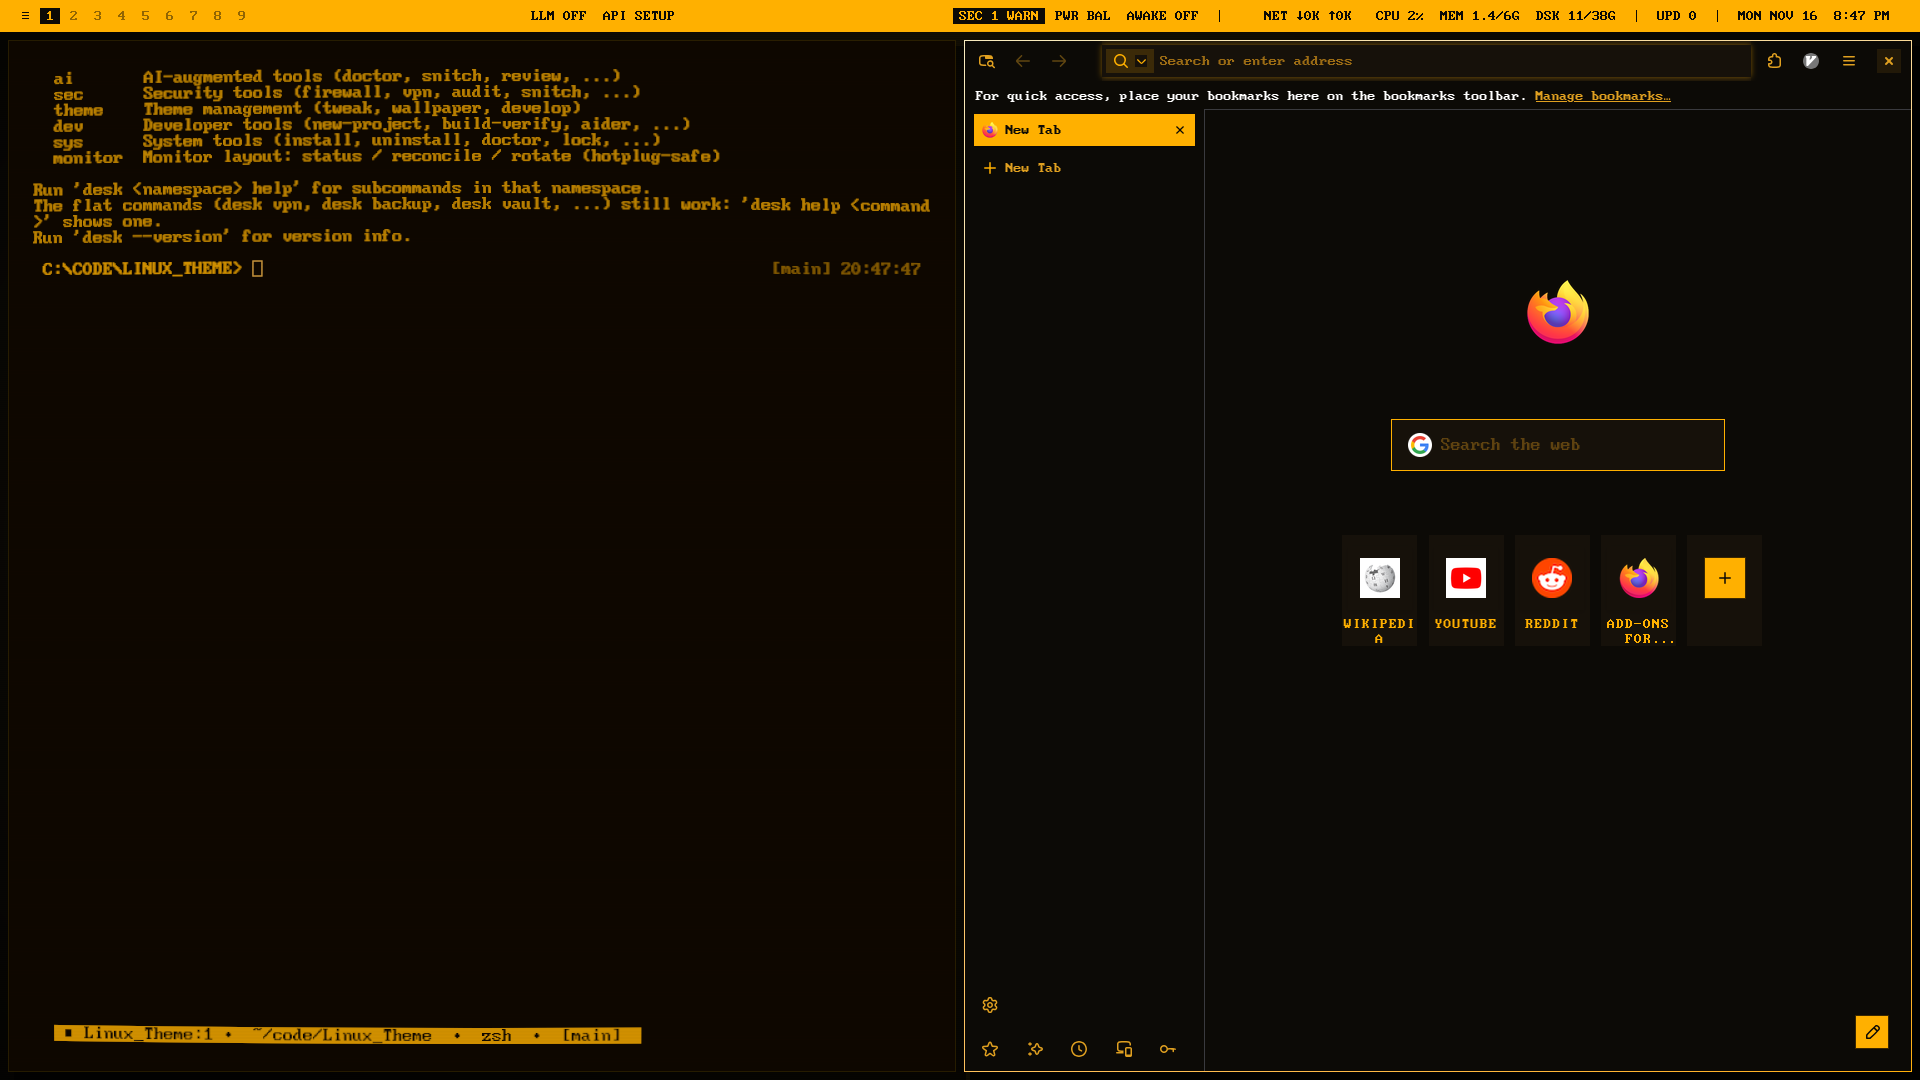
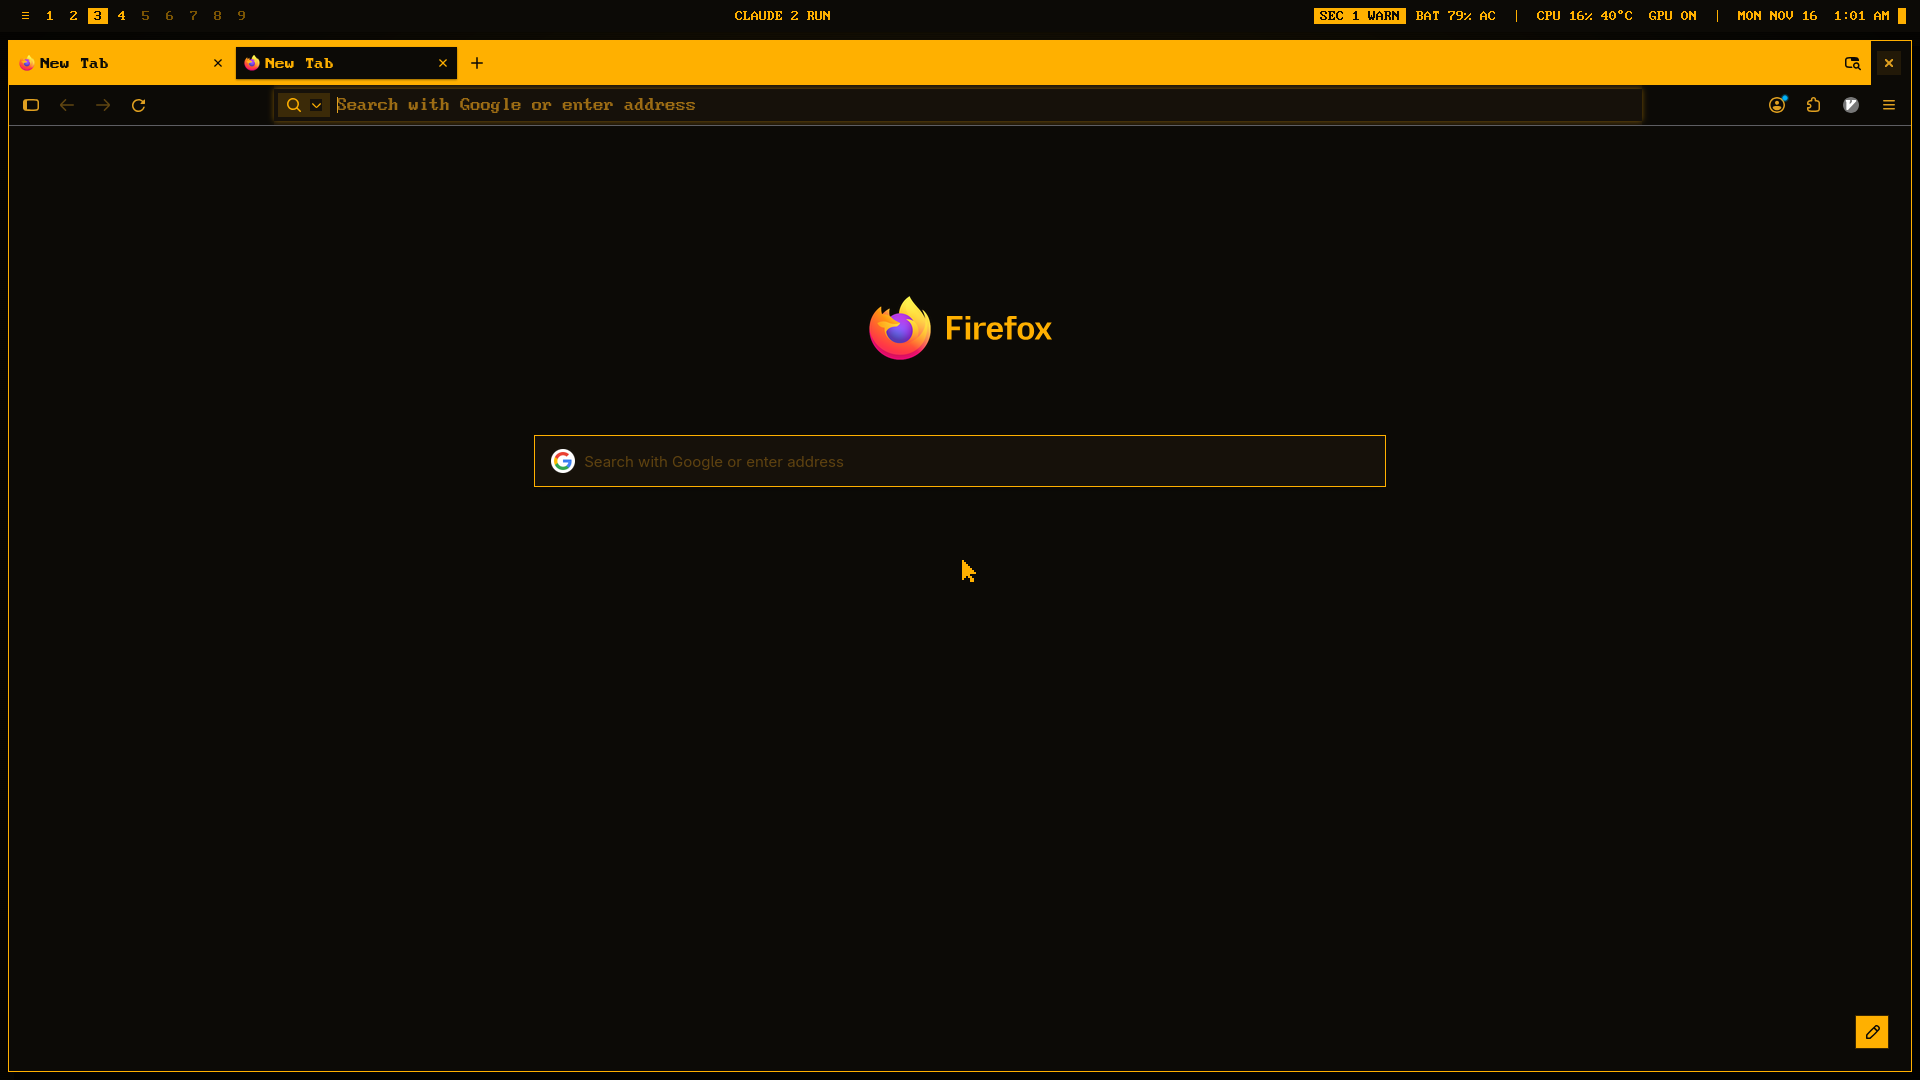
README: the retro-amber gallery, refreshed
New screenshots of the current retro-amber desktop (the decluttered bar, the
Workbench drawer), terminal, Firefox, lock screen, Neovim with Neo-tree, a
Telescope picker, the review and the Claude notebook, captured in an isolated
nested session from the repo's templates, with sample data for the bar and the
notebook (capture notes in shared/screenshots/README.md). The Paper pictures,
no longer used, go. Checked: no private content (trader, history, addresses),
privacy guard clean.

Claude-Session: https://claude.ai/code/session_01JTNhdZvmGyGn4ohNs9SMYx

diff --git a/README.md b/README.md
@@ -25,39 +25,56 @@ parts you want through the installer; the setup scripts provide broader defaults
 
 ## Screenshots
 
-The retro-amber desktop (the default theme), with its drawer open:
+**retro-amber**, the default theme: a text-mode bar, the Workbench drawer and
+Neovim, with an amber pixel pointer and square window borders.
 
-![retro-amber desktop with the drawer open](shared/screenshots/retro_desktop.png)
+![retro-amber desktop with the Workbench drawer open](shared/screenshots/retro_desktop.png)
 
 <details>
-<summary>Lock screen, browser, terminal and editor</summary>
+<summary>Terminal, Firefox and lock screen</summary>
 
-![retro-amber lock screen](shared/screenshots/retro_lock.png)
+Kitty's phosphor glow, the DOS-style Zsh prompt, tmux footer and `desk` commands:
 
-![retro-amber Firefox new tab](shared/screenshots/retro_firefox.png)
+![retro-amber terminal with Zsh, tmux and the desk command reference](shared/screenshots/retro_terminal.png)
 
-![Terminal](shared/screenshots/retro_terminal.png)
+Firefox's tabs, address bar and new tab page share the palette and font:
 
-![Neovim](shared/screenshots/retro_nvim.png)
+![retro-amber Firefox new tab page](shared/screenshots/retro_firefox.png)
+
+The BIOS-style lock screen shows a system summary and a keyboard status line:
+
+![retro-amber Hyprlock screen](shared/screenshots/retro_lock.png)
 
 </details>
 
-Reviewing what a coding agent changed, in Neovim: changes grouped by plan, before and after side by side, and each
-plan step against the commits that touched it.
-
-![Review of an agent's changes in Neovim, with plan coverage](shared/screenshots/review.png)
-
 <details>
-<summary>The Claude notebook</summary>
+<summary>Neovim plugins and development workflows</summary>
 
-The pane beside a Claude Code session: what needs you, the last turn, the plan and the work, drawn here from sample
-data by `python3 tests/notebook_preview.py`.
+Neo-tree, syntax highlighting, comment folds, Git signs and the Lualine status bar:
 
-![The Claude notebook's pages](shared/screenshots/notebook.png)
+![retro-amber Neovim with Neo-tree and a C++ source file](shared/screenshots/retro_nvim.png)
+
+Telescope finds project files with a preview, using the same amber dialog borders:
+
+![retro-amber Telescope file picker with a source preview](shared/screenshots/retro_telescope.png)
+
+The built-in review groups working changes and commits beside a before-and-after
+comparison. This example uses a sample queue refactor:
+
+![retro-amber Neovim review with a file list and side-by-side C++ changes](shared/screenshots/review.png)
+
+The Claude notebook shows attention items, the current plan, review progress and
+job results. These pages are drawn from sample data by
+`python3 tests/notebook_preview.py --theme retro-amber`:
+
+![retro-amber Claude notebook pages drawn from sample data](shared/screenshots/notebook.png)
 
 </details>
 
-See [Agent workflows](docs/agent-workflows.md) for both.
+Screenshots use the current repository templates in an isolated desktop preview.
+Bar telemetry and notebook contents include sample data; see the
+[capture notes](shared/screenshots/README.md). See
+[Agent workflows](docs/agent-workflows.md) for the review and notebook controls.
 
 ## Install
 
@@ -117,7 +134,7 @@ Alternative themes have varying levels of completion; read the
 
 ```bash
 ./swap.sh                           # interactive theme picker
-./install.sh Classic --render # render, deploy and refresh a chosen theme
+./install.sh Classic --render       # render, deploy and refresh a chosen theme
 ```
 
 Edit files in `templates/` to keep changes across theme swaps. If you edited live
@@ -130,6 +147,9 @@ configs, `./update.sh` shows how they differ from the templates, to move by hand
 | --- | --- |
 | `Alt+Space` | Find apps, windows, projects and desktop actions |
 | `desktop-menu` | Desktop drawer |
+| `Space e` in Neovim | Neo-tree file explorer |
+| `Space ff` / `Space fg` in Neovim | Telescope file search / project text search |
+| `Space Cw` in Neovim | Review working changes and commits |
 | `desk sys cheatsheet` | Searchable keyboard shortcut reference |
 | `desk theme check` | Deployed desktop configuration and runtime checks |
 | `desk sys doctor` | Configuration diagnostics |

diff --git a/shared/screenshots/README.md b/shared/screenshots/README.md
@@ -1,0 +1,41 @@
+# Screenshot capture notes
+
+The README gallery was refreshed on **2026-11-17** from commit `3b71d9a`, using
+`themes/retro-amber/palette.sh`, the current application templates and shared
+Neovim/Quickshell modules.
+
+Captures run at 1920×1080 in a separate, nested Hyprland session. Application
+configuration, Firefox's profile, work records and cache are staged in a
+temporary directory. The installed desktop configuration is not redeployed.
+The pointer uses `foxml-retro-cursors` at the configured 30-pixel size.
+
+| Image | What is shown |
+| --- | --- |
+| `retro_desktop.png` | Current Quickshell bar and Workbench drawer, wallpaper and Neovim |
+| `retro_terminal.png` | Rendered Kitty shaders, Zsh prompt and tmux footer, with `desk help` and a palette directory listing |
+| `retro_firefox.png` | Rendered userChrome/userContent styles in a clean Firefox profile; weather, sponsored content and the empty bookmarks toolbar are hidden through browser preferences |
+| `retro_lock.png` | Rendered Hyprlock configuration and boot/status helpers in the nested session; fingerprint authentication is disabled for the preview |
+| `retro_nvim.png` | Rendered Neovim configuration, current desk modules and installed plugins, with Neo-tree and repository source |
+| `retro_telescope.png` | Telescope searching `src/desk-common` with a source preview |
+| `review.png` | Current review UI comparing working changes in a temporary sample queue project |
+| `notebook.png` | Three sample pages emitted by the notebook's real drawing code, displayed side by side in Kitty |
+
+Bar helper outputs use the `today` sample data from `tests/bar_preview.py`;
+the bar's layout and drawing code are the current production QML. Sample counts
+and the sample clock are illustrative. The lock screen's system summary reads
+the capture machine. No private browser history or agent conversation is used.
+
+The notebook text comes from:
+
+```bash
+python3 tests/notebook_preview.py --theme retro-amber --colour
+```
+
+The captured pages are **front page**, **project page · figures** and **files ·
+only what needs review**. The helper reports that its appearance assertions are
+written for Paper; drawing the retro scenes is not a passing run of those tests.
+
+The unused `paper_desktop.png`, `paper_firefox.png` and `paper_lock.png` images
+were removed. The former Paper review and notebook images were replaced with
+retro captures. Development mockups under `previews/soft-paper/` remain separate
+from this gallery.
